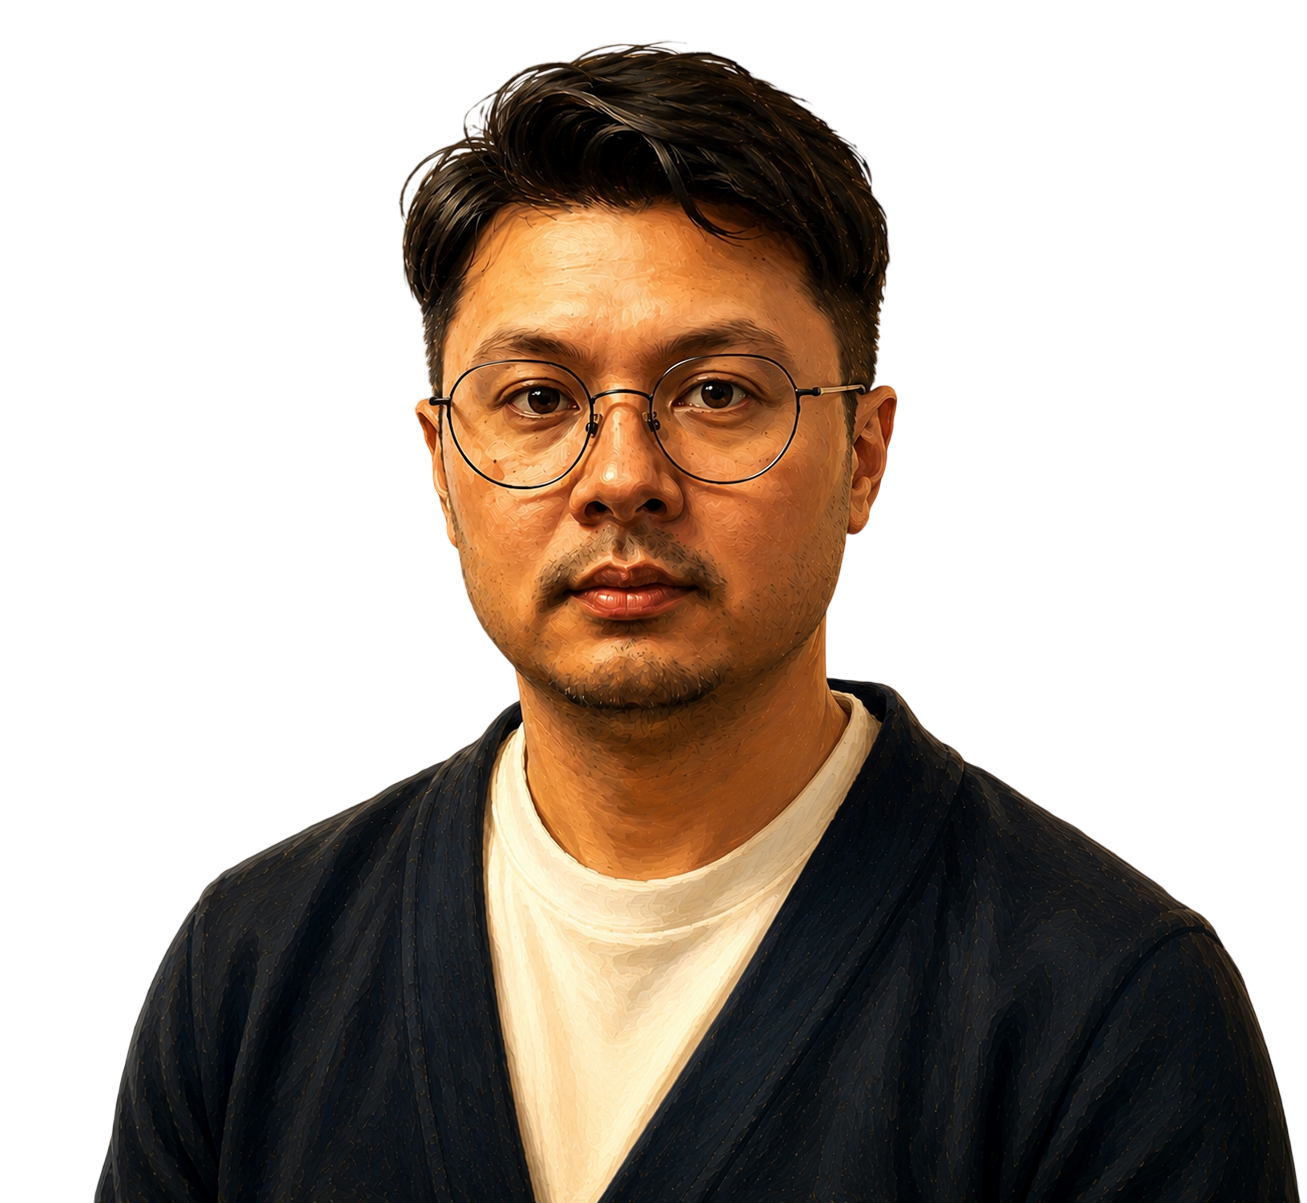
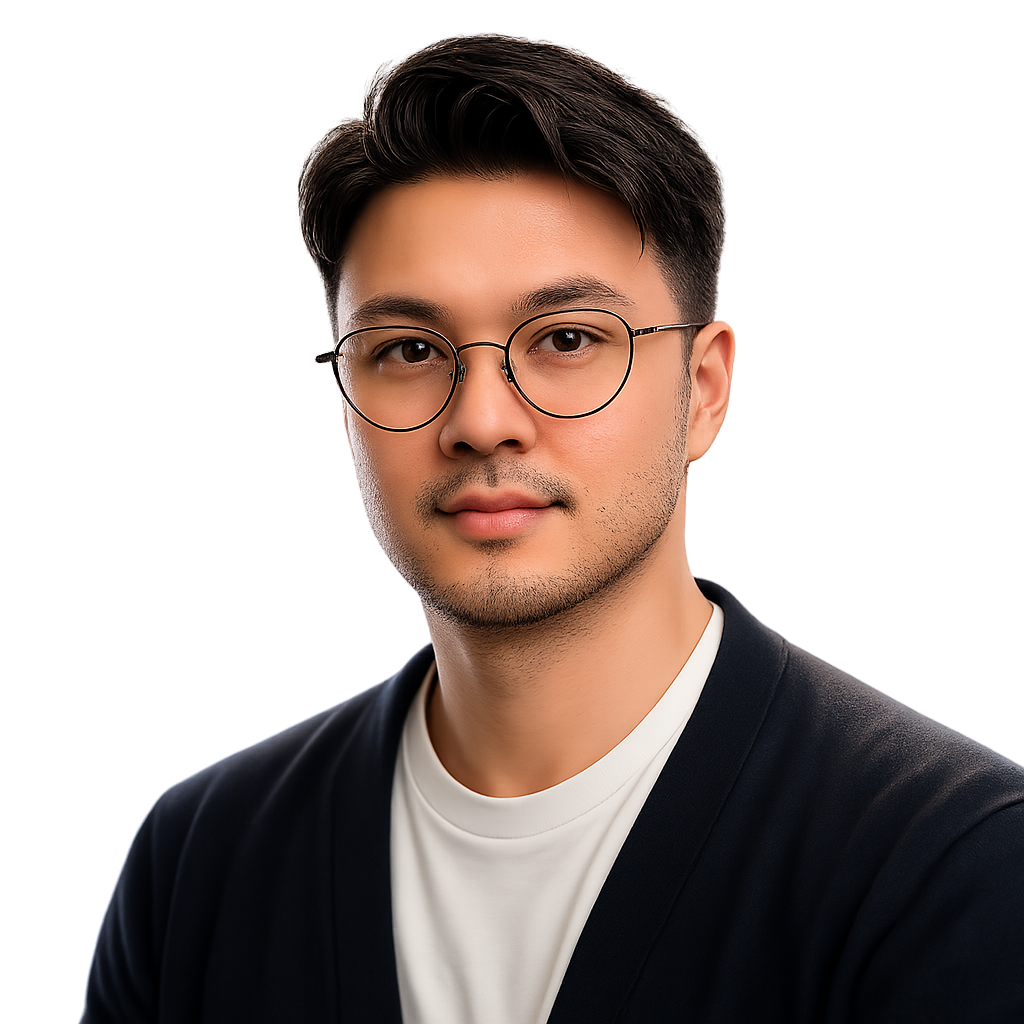
fix work slider desktop view

diff --git a/pages/about/index.jsx b/pages/about/index.jsx
@@ -11,9 +11,9 @@ export const aboutData = [
     title: "skills",
     info: [
       { title: "Software License Advisory" },
-      { title: "Vendor Risk Assessment" },
-      { title: "Third-Party Risk Management (TPRM)" },
+      { title: "Third-Party Risk Management (TPRM) & Vendor Risk Assessment" },
       { title: "Data Analytics & Automation" },
+      { title: "AI Training & Coaching for Business Professionals" },
     ],
   },
   {
@@ -87,7 +87,6 @@ const About = () => {
       </motion.div>
 
       <div className="container mx-auto h-full flex flex-col items-center xl:flex-row gap-x-6">
-        {/* text */}
         <div className="flex-1 flex flex-col justify-center">
           <motion.h2
             variants={fadeIn("right", 0.2)}
@@ -107,13 +106,12 @@ const About = () => {
           >
             Over 12 years across ASEAN and APAC, I have applied data analytics
             to solve complex business challenges. From uncovering software
-            license exposure to assessing vendor risk and surfacing hidden
-            opportunities, my work sits at the intersection of data, risk, and
-            commercial outcomes. I bridge deep technical credibility with
-            pragmatic, relationship-preserving results.
+            license exposure to assessing vendor risk, surfacing hidden
+            opportunities, and helping professionals harness AI as a competitive
+            advantage. My work sits at the intersection of data, risk, and
+            commercial outcomes.
           </motion.p>
 
-          {/* counters */}
           <motion.div
             variants={fadeIn("right", 0.6)}
             initial="hidden"
@@ -157,7 +155,6 @@ const About = () => {
           </motion.div>
         </div>
 
-        {/* info tabs */}
         <motion.div
           variants={fadeIn("left", 0.4)}
           initial="hidden"

diff --git a/pages/services/index.jsx b/pages/services/index.jsx
@@ -10,7 +10,6 @@ const Services = () => {
       <Circles />
       <div className="container mx-auto">
         <div className="flex flex-col xl:flex-row gap-x-8">
-          {/* text */}
           <div className="text-center flex xl:w-[30vw] flex-col lg:text-left mb-4 xl:mb-0">
             <motion.h2
               variants={fadeIn("up", 0.2)}
@@ -28,12 +27,11 @@ const Services = () => {
               exit="hidden"
               className="mb-4 max-w-[400px] mx-auto lg:mx-0"
             >
-              Three interconnected domains where data, risk, and commercial
+              Four interconnected domains where data, risk, and commercial
               outcomes converge. Each built on over a decade of applied
               experience across ASEAN and APAC.
             </motion.p>
           </div>
-          {/* slider */}
           <motion.div
             variants={fadeIn("down", 0.6)}
             initial="hidden"